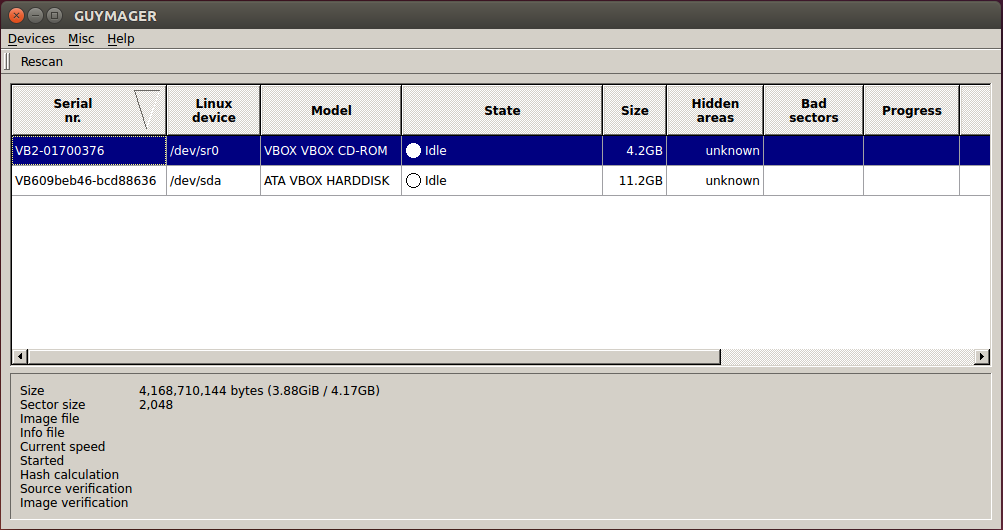
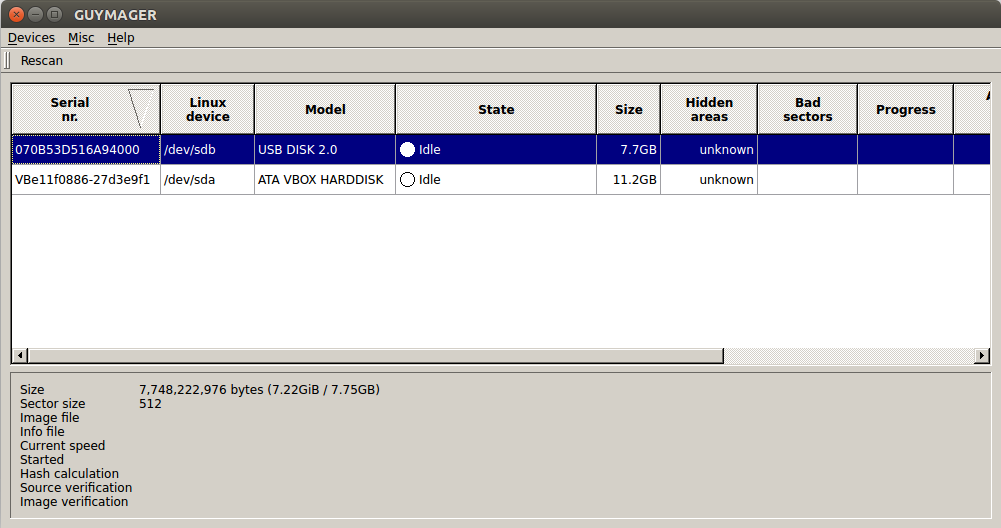
accuracy updates

Changed region(s): [[0.0, 0.0, 1.0, 1.0]]

diff --git a/disk-imaging.md b/disk-imaging.md
@@ -85,7 +85,7 @@ Now that we have the device file, we need to "unmount" the "Volume". The USB dev
 ```
 $ sudo umount /media/techfocus/Macintosh\ HD/
 ```
-***! Important ! *** the `$` in the above line is not for you to type into your terminal. As you may have noticed when you opened your terminal, a new line begins with `techfocus@techfocus-VirtualBox:~$`. The `$` symbol is standardly used to indicate the begining of the command prompt. At this point we now have our device file, and we have unmounted the Volume we would like to image – and so we are ready to disk image!
+***Important:*** the `$` in the above line is not for you to type into your terminal. As you may have noticed when you opened your terminal, a new line begins with `techfocus@techfocus-VirtualBox:~$`. The `$` symbol is standardly used to indicate the begining of the command prompt. At this point we now have our device file, and we have unmounted the Volume we would like to image – and so we are ready to disk image!
 
 
 ### Using dd
@@ -111,12 +111,19 @@ $ watch -n 1 'killall -USR1 dd'
 This tells our computer to repeat the `killall` command every second - and thus we are shown `dd`'s progress every second. This is a bit cumbersome though, so lets look at a slightly more featured program that is similar to `dd` but more user-friendly.
 
 ### Using ddrescue
-In your terminal, type `ddrescue --help` and press enter. As you can see, ddrescue has many options. We actually are not going to use any of them today. `ddrescue`'s syntax is very similar to `dd`, but a bit simpler: `ddrescue [input file] [output file]`. As you can see, `ddrescue` does not have the same `if=` `of=` paradigm as `dd` – you simply type the name of the program, follwed by the device file of the disk you wish to image, followed by the path to and filename of the disk image. Give this a try:
+In your terminal, type `ddrescue --help` and press enter. As you can see, ddrescue has many options. We actually are not going to use any of them today. `ddrescue`'s syntax is very similar to `dd`, but a bit simpler: `ddrescue [input file] [output file]`. As you can see, `ddrescue` does not have the same `if=` `of=` paradigm as `dd` – you simply type the name of the program, follwed by the device file of the disk you wish to image, followed by the path to and filename of the disk image. This time we will make a disk image of a different drive. Thus we first need to unmount it:
 
 ```
-$ ddrescue if=/dev/disk1s02 of=/home/techfocus/Desktop/ddrescue_demo.001
+$ sudo umount /media/techfocus/Ben\'s\ PC/
 ```
-As you can see, `ddrescue`'s output is much more useful – right out of the box we can see what the program is doing. It will even tell us if there are any errors in reading the source disk – while if this occurs with `dd`it will silently continue. So now we can make raw disk images using two free and open source command line tools. This is great – and as discussed previously, raw images are wonderful for preservation – but there are three big limitations with these tools and with raw images:
+
+Then give this a try:
+
+```
+$ sudo ddrescue if=/dev/sdb1 of=/home/techfocus/Desktop/Bens_PC.001
+```
+
+This time we are disk imaging a different volume of the USB thumb drive. As you can see, `ddrescue`'s output is much more useful – right out of the box we can see what the program is doing. It will even tell us if there are any errors in reading the source disk – while if this occurs with `dd`it will silently continue. So now we can make raw disk images using two free and open source command line tools. This is great – and as discussed previously, raw images are wonderful for preservation – but there are three big limitations with these tools and with raw images:
 
 * we are not validating the disk image
 * we are not capturing metadata about its creation
@@ -130,7 +137,7 @@ You will be happy to learn that we will now be leaving the command line! Guymage
 
 ![guymager launch screen](images/guymager-start.png)
 
-This screen lists all of your attached storage devices. You should see your USB thumb drive listed. In the "Linux device" column you should be able to locate the device file we have used in the `dd` and `ddrescue` tutorials. Right click anywhere on the row for this device and choose "acquire image" from the contextual menu. 
+This screen lists all of your attached storage devices. You should see your USB thumb drive listed. In the "Linux device" column you should see `USB DISK 2.0`. Guymager only allows one to create physical disk images - in other words - our USB thumb drive is partitioned into three mountable volumes. With `dd` and `ddrescue` we were creating logical images of specific volumes of the USB thumb drive. A physical image is most desireable from a preservation standpoint as it is the most complete capture possible. Right click anywhere on the row for this device and choose "acquire image" from the contextual menu. 
 
 ![guymager acquire image screen](images/guymager-acquire.png)
 
@@ -142,7 +149,7 @@ Make sure to select `Expert Witness Format`. The "Split size" option is in case 
 
 ![](images/guymager-running.png)
 
-When the imaging and verification process is complete, you should see `Finished - Verified & ok`:
+Normally we would wait for the disk imaging, and verification processes to complete, however your computer most likely does not have enough free space to complete this image. When the imaging and verification process is complete, you should see `Finished - Verified & ok`:
 
 ![](./images/guymager-complete.png)
 
@@ -152,14 +159,14 @@ Congratulations – you are the proud new owner of a forensic disk image!
 Disk imaging is a crucial baseline process in digital preservation and conservation, but creating one and properly storing it in a digital repository is only part of the story. In many ways a disk image can be thought of as a black box. Just as we can not assume that in 100 years people will have the proper software to play a Quicktime, and that we must accompany files with `representation information` about their makeup – it is advisable to do the same with disk imgages.
 
 ### Fiwalk
-Using a command line based tool called fiwalk we can extract metadat about the filesystem contained within the disk image. In your terminal type the `fiwalk` command, followed by a `space`, and then drag and drop the E01 disk image we produced with Guymager directly into your terminal window. Your command should read like so:
+Using a command line based tool called `fiwalk` we can extract metadat about the filesystem contained within a disk image. Let's use this tool to generate metadata about the `Ben's PC` disk image. In your terminal type the `fiwalk` command, followed by a `space`, and then drag and drop the `Bens_PC.001` disk image we produced with ddrescue directly into your terminal window. Your command should read like so:
 
 ```
-fiwalk [path/to/disk/image.E01]
+$ fiwalk /home/techfocus/Desktop/Bens_PC.001
 ```
 Press enter. Fiwalk is now extracting information about the filesystem contained within the disk image – including an MD5 and SHA1 checksum for every single file. `fiwalk` is only outputting this metadata to the command line - we of course want to record this information in file form. `fiwalk` supports the output of XML in the Digita Forensics XML (DFXML) format. If your first fiwalk command is still running, press and hold the `control` button on your keyboard, and while holding control, press the letter `c`. This is called a `keyboard intterupt`, and is a way of halting a running program in your terminal. Now, press the up arrow on your keyboard. This will recall the last command that you typed. At the end of your command, add the following: `-X ~/Desktop/fiwalk.xml` Your full command should now look like this:
 ```
-fiwalk [path/to/disk/image.E01] -X ~/Desktop/fiwalk.xml
+$ fiwalk /home/techfocus/Desktop/Bens_PC.001 -X ~/Desktop/fiwalk.xml
 ```
 Press enter. Switching the `fiwalk` output to XML means that you will not see any output from the tool until it finishes. When the process completes you will see a new line in your terminal with a blinking cursor. When you see this new line, type `gedit ~/Desktop/fiwalk.xml` and press enter. This will open the XML file in a text editor so that we can read it. Feel free to browse around and get a feel for what DFXML looks like.
 
